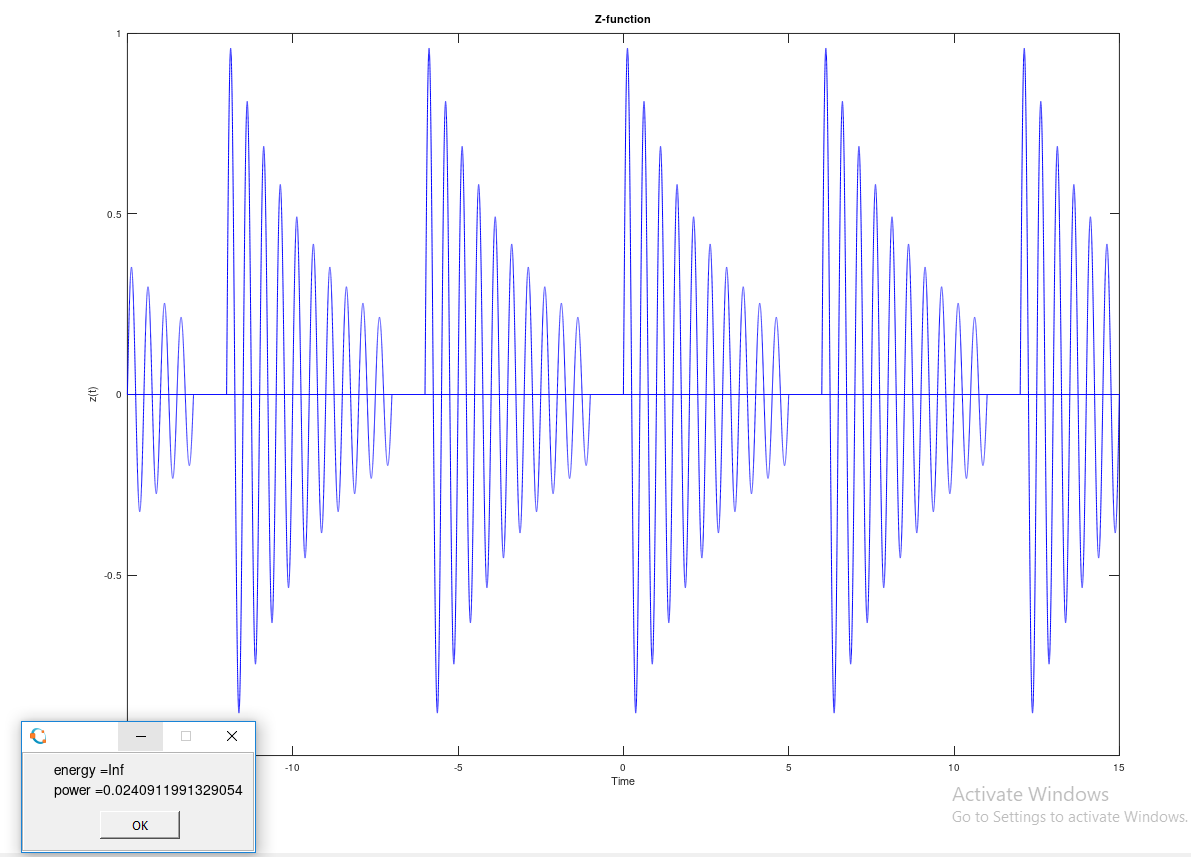
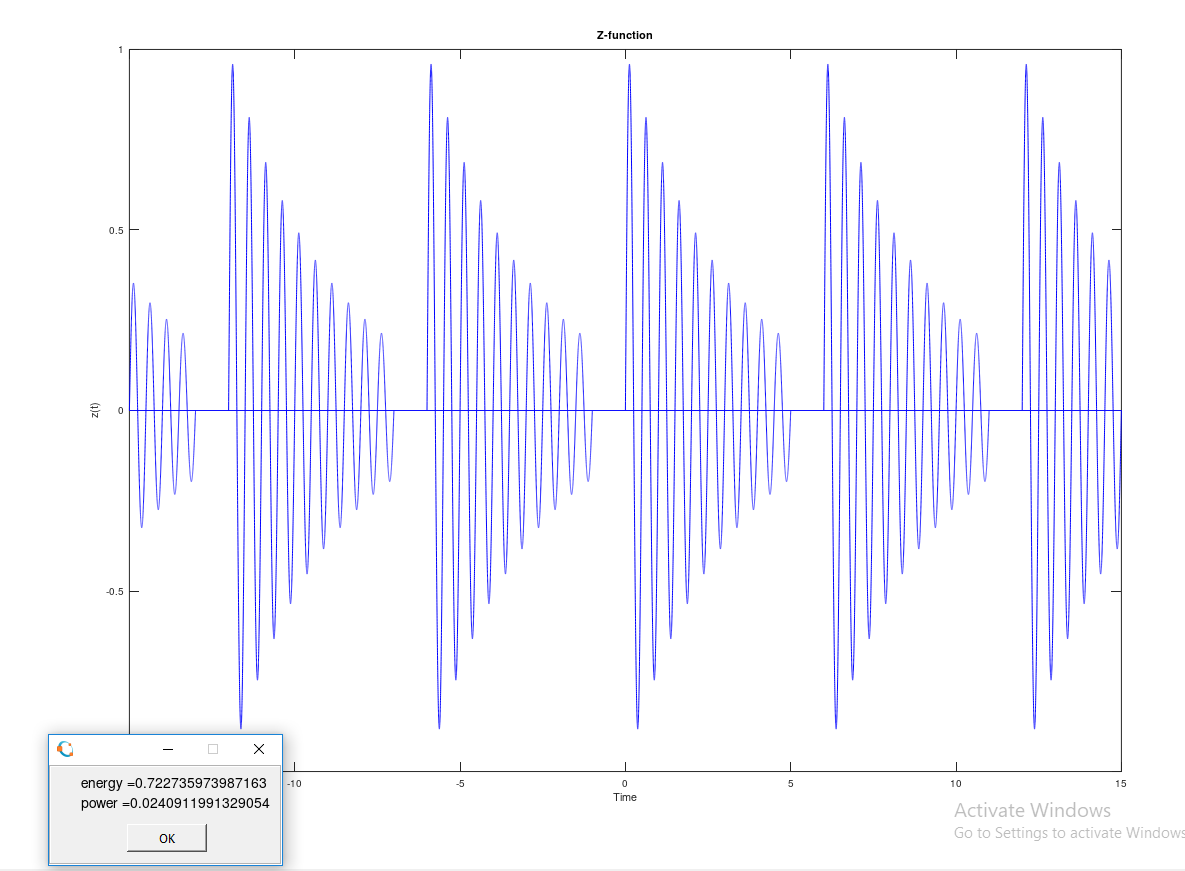
Energy modified

Changed region(s): [[0.0, 0.0, 1.0, 1.0], [0.0937, 0.6674, 0.1249, 0.6978], [0.0937, 0.2427, 0.1249, 0.273]]

diff --git a/PartC/main_partC.m b/PartC/main_partC.m
@@ -24,5 +24,5 @@ interval = 15 - (-15);
 power = energy / interval;
 
 msgbox(
-strcat("energy = " ,mat2str(Inf),"\n","power = ",mat2str(power))
+strcat("energy = " ,mat2str(energy),"\n","power = ",mat2str(power))
 );
